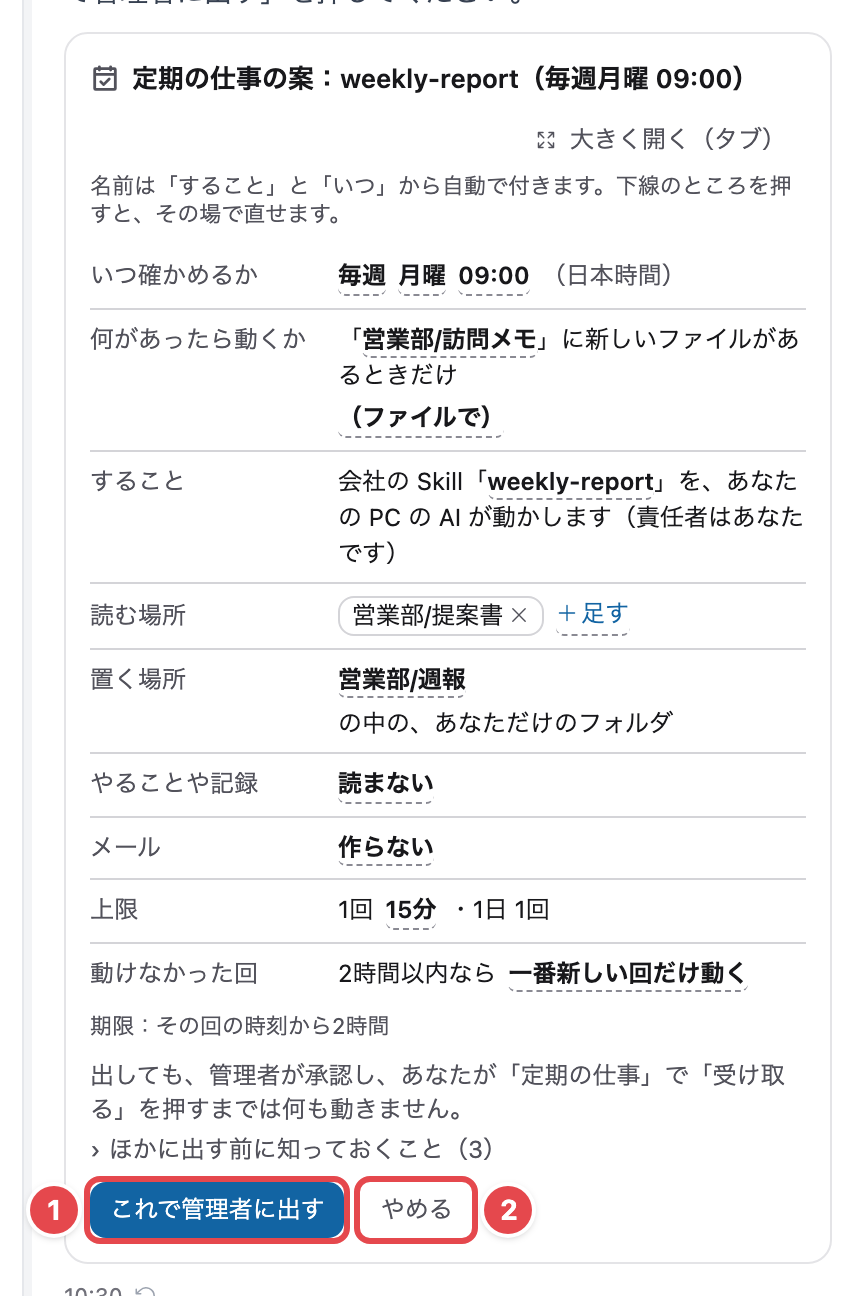
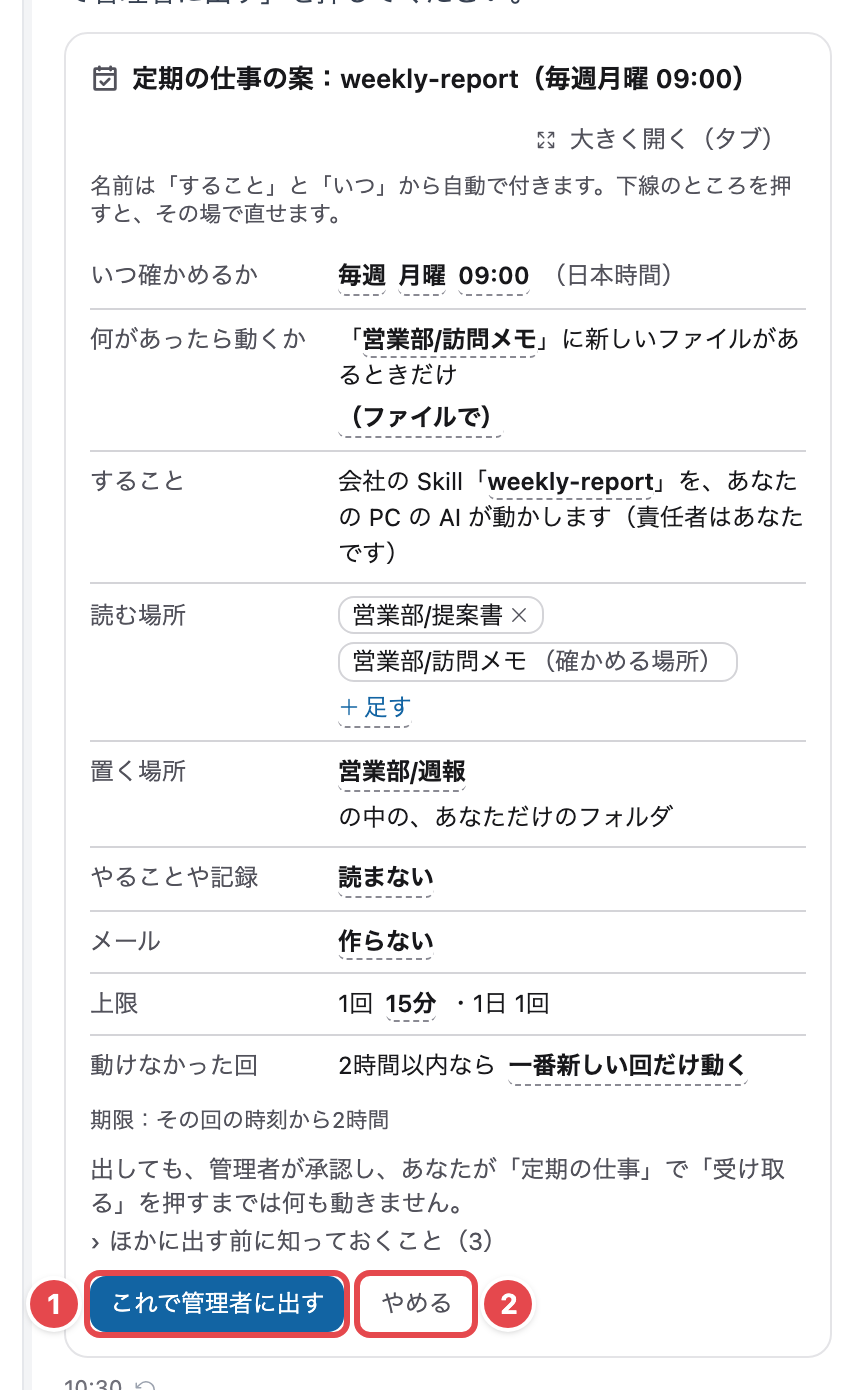
fix(client): a job proposal's 読む場所 shows every place the job may read, the check's place included
The card listed only the read places the member added, so a candidate whose
check looked at 営業部/顧客資料 and read nothing else said 「読む場所：なし」
while proposalDefinition granted reading that place. 読む場所 is now
proposalReadPaths (shared/core), the very list the definition puts in
grant.reads.paths: the check's place is shown, marked 「（確かめる場所）」 with
no ×; × takes off only a place added besides it. The manual's picture is
re-shot.

Claude-Session: https://claude.ai/code/session_01HCZRwqRkDF5Nj1GwyD9baC

diff --git a/client/src/features/chat/components/JobProposalEditRows.tsx b/client/src/features/chat/components/JobProposalEditRows.tsx
@@ -1,6 +1,6 @@
 import { useState, type ReactNode } from 'react'
 import { Plus, X } from '@phosphor-icons/react'
-import { isJobCandidatePlace, type JobCandidateInput } from '../../../../../shared/core/job-proposals'
+import { isJobCandidatePlace, proposalReadPaths, type JobCandidateInput } from '../../../../../shared/core/job-proposals'
 import type { JobWeekday } from '../../../../../shared/core/jobs'
 import { jobMinutesText } from '../../../../../shared/core/job-words'
 import { jobTimeZoneText } from '../../../../shared/job-proposals'
@@ -64,6 +64,8 @@ export function JobProposalEditRows({ input, skillChangeable, timeZone, disabled
   const places = (keep: string | null): readonly EditChoice[] | 'loading' => choices === 'loading' || choices === null ? 'loading'
     : placeChoices(known, keep ? [keep, ...current] : current).map(p => ({ value: p, label: p }))
   const zone = jobTimeZoneText(timeZone)
+  const checkPath = input.check.kind === 'new_files' ? input.check.path : null
+  const readPaths = proposalReadPaths(input)
   const common = { disabled, onOpen: onLoadChoices }
 
   return (
@@ -103,14 +105,17 @@ export function JobProposalEditRows({ input, skillChangeable, timeZone, disabled
           : <span className="font-strong">{input.skill}</span>}」を、あなたの PC の AI が動かします（責任者はあなたです）</span>
       </Row>
       <Row label="読む場所">
-        {input.reads.map(r => (
+        {/* What the AI may read (the grant's own list): the check's place too, which only the check's row changes. */}
+        {readPaths.map(r => (
           <span key={r} className="inline-flex items-center gap-0.5 rounded-control border border-border-control bg-surface-raised px-1.5">
             {r}
-            <button type="button" aria-label={`「${r}」を外す`} disabled={disabled} className="text-text-muted hover:text-text disabled:opacity-disabled"
-              onClick={() => set({ reads: input.reads.filter(x => x !== r) })}><X size={11} aria-hidden /></button>
+            {r === checkPath
+              ? <span className="text-text-muted">（確かめる場所）</span>
+              : <button type="button" aria-label={`「${r}」を外す`} disabled={disabled} className="text-text-muted hover:text-text disabled:opacity-disabled"
+                onClick={() => set({ reads: input.reads.filter(x => x !== r) })}><X size={11} aria-hidden /></button>}
           </span>
         ))}
-        {input.reads.length === 0 && <span className="text-text-muted">なし</span>}
+        {readPaths.length === 0 && <span className="text-text-muted">なし</span>}
         {input.reads.length < 10 && (
           <InlineChoice label="足す読む場所" value="" shown={<span className="inline-flex items-center gap-0.5 font-normal text-link"><Plus size={11} aria-hidden />足す</span>} {...common}
             choices={(() => { const p = places(null); return p === 'loading' ? p : [{ value: '', label: '選んでください' }, ...p.filter(c => !input.reads.includes(c.value) && !(input.check.kind === 'new_files' && input.check.path === c.value))] })()}

diff --git a/client/src/features/chat/jobProposalEdit.test.ts b/client/src/features/chat/jobProposalEdit.test.ts
@@ -4,7 +4,7 @@
  */
 import { test } from 'node:test'
 import assert from 'node:assert/strict'
-import { proposalDefinition, proposalInputOf, type JobCandidateInput } from '../../../../shared/core/job-proposals'
+import { proposalDefinition, proposalInputOf, proposalReadPaths, type JobCandidateInput } from '../../../../shared/core/job-proposals'
 import { parseJobDefinition, type JobDefinition } from '../../../../shared/core/jobs'
 import { atChoices, changeText, foldersOf, inputKey, normalizedInput, placeChoices, sameInput, skillChoices, triggerWithEvery } from './jobProposalEdit'
 
@@ -47,6 +47,21 @@ test('what is sent is what will come back: a read place chosen as the check\'s p
     const sent = normalizedInput(chosen)
     assert.ok(sameInput(back(sent), sent), JSON.stringify(chosen.reads))
     assert.ok(sameInput(back(chosen), sent), 'the server answers the normalized input')
+  }
+})
+
+test('読む場所 on the card is exactly what the job may read: the grant\'s read paths, the check\'s place included', () => {
+  const pinned = { actingUser: 'u', procedure: { source: 'company_skill' as const, skill: 'weekly-report', fingerprint: 'c'.repeat(40) }, skillName: 'weekly-report', candidateId: 'jc.' + 'a'.repeat(32) }
+  for (const chosen of [
+    INPUT,
+    { ...INPUT, reads: [] },
+    { ...INPUT, reads: ['営業部/訪問メモ', '営業部/提案書'] },
+    { ...INPUT, check: { kind: 'new_meetings' as const }, reads: [] },
+  ]) {
+    const definition = (parseJobDefinition(proposalDefinition(chosen, pinned)) as { definition: JobDefinition }).definition
+    // The card shows the input the server's definition reads back as (`proposalInputOf`).
+    const shown = proposalReadPaths(proposalInputOf(definition)!)
+    assert.deepEqual([...shown].sort(), [...definition.grant.reads.paths].sort(), JSON.stringify(chosen))
   }
 })
 

diff --git a/shared/core/job-proposals.ts b/shared/core/job-proposals.ts
@@ -164,14 +164,22 @@ export function proposalDeliverableFolder(candidateId: string): string {
 }
 
 /**
+ * Every place a candidate's job may read (`grant.reads.paths`): its read places, then the check's place — the one list the
+ * definition grants and the card shows as 読む場所, so what the member confirms is what the AI may read.
+ */
+export function proposalReadPaths(input: JobCandidateInput): string[] {
+  return [...new Set([...input.reads, ...(input.check.kind === 'new_files' ? [input.check.path] : [])])]
+}
+
+/**
  * The definition a candidate becomes (schema 4, not yet parsed — the server runs `parseJobDefinition` on it): the signed-in
  * member as the responsible person, the Skill the server pinned, the reads and the check's place read, the one やること it
  * creates at its end (`records`, `creates: ['task']`), the record reads / minutes / mail drafts only as chosen, at most one
  * run a day.
  */
 export function proposalDefinition(input: JobCandidateInput, pinned: { actingUser: string; procedure: JobProcedure; skillName: string; candidateId: string }): Record<string, unknown> {
-  const reads = [...new Set([...input.reads, ...(input.check.kind === 'new_files' ? [input.check.path] : [])])]
-  const tools = ['records', ...(reads.length > 0 ? ['files_read'] : []), ...(input.deliverable !== null ? ['files_write'] : []), ...(input.mailDrafts ? ['outbound_draft'] : [])]
+  const reads = proposalReadPaths(input)
+  const tools =['records', ...(reads.length > 0 ? ['files_read'] : []), ...(input.deliverable !== null ? ['files_write'] : []), ...(input.mailDrafts ? ['outbound_draft'] : [])]
   const routes = [
     ...(input.readRecords ? JOB_PROPOSAL_RECORD_ROUTES : []),
     ...(input.check.kind === 'new_meetings' ? [JOB_MINUTES_ROUTE] : []),

diff --git a/client/tests/job-proposal-card-ui.tsx b/client/tests/job-proposal-card-ui.tsx
@@ -4,6 +4,7 @@
 // Fictional data only. What the page offers the spec:
 //   ?hold=1                     a change's answer waits until `window.__acbRelease()` (the 「確かめています」 state)
 //   ?lost=1                     a change is made on the server, its answer lost
+//   ?reads=none                 the candidate reads only its check's place (「営業部/訪問メモ」), no other read place
 //   window.__acbChangeElsewhere()  the server's candidate is changed by someone else's card (the card still shows the old one)
 //   `#revised`                  every change sent (its fingerprint and the input), `#submitted` every 出す's fingerprint
 //   `#tab`                      ［大きく開く（タブ）］ opens the same card here, as AppShell's tab does
@@ -37,7 +38,11 @@ const build = (input: JobCandidateInput): JobDefinition => (parseJobDefinition(p
 
 // The server's candidate: what every read answers.
 let serial = 1
-let server = { definition: MANUAL_JOB_DEFINITION, fingerprint: fingerprintOf(serial) }
+let server = {
+  // `?reads=none`: the candidate reads no place besides the one its check looks at.
+  definition: params.get('reads') === 'none' ? build({ ...proposalInputOf(MANUAL_JOB_DEFINITION)!, reads: [] }) : MANUAL_JOB_DEFINITION,
+  fingerprint: fingerprintOf(serial),
+}
 const view = () => ({ id: CANDIDATE, definition: server.definition, fingerprint: server.fingerprint, expiresAt: '2026-11-21T01:30:00.000Z', timeZone: 'Asia/Tokyo' })
 let release: () => void = () => {}
 let submitted: JobProposalView | null = null

diff --git a/.claude/rules/shared-core.md b/.claude/rules/shared-core.md
@@ -83,7 +83,7 @@ server, push checker and admin alike. `server/tests/unit/core-purity.test.ts` en
 | `bundle-place.ts` | which department a new 案件・プロジェクト belongs to by default (`defaultBundleFolder`: the creator's 所属; `records.md` "A task and its 案件・プロジェクト") |
 | `task-settings.ts` | the company's task settings (`parseTaskSettings`, defaults, `workSwitchPoliciesOf`) and `replyTarget` (返事の目安, Japan time) (`tasks.md`) |
 | `jobs.ts` | scheduled jobs (定期の仕事): the strict definition parser `parseJobDefinition` (schema 1: trigger list shapes, check, run, placement e / a, missed, grant in the step tools' words), `jobConsentCanonical` (what the responsible person accepts), the set watch's words and the one list of opened combinations (`JOB_SET_WATCH_WORDS`, `JOB_SET_WATCH_OPENED`, `jobSetWatchOpened`, `parseJobDecisionFile`: schema 5, `jobs.md` "The set watch (schema 5)"), job / occurrence ids (`occ.` + hex, never a record id), occurrence states and outcome codes, `JOB_ACTOR` (`jobs.md`) |
-| `job-proposals.ts` | member proposals of a time job (`jobs.md` "Member proposals"): candidate / proposal ids, limits, states, the fixed return reasons and their words, `parseJobCandidateInput` (list values only), `isJobCandidatePlace` (a place a candidate may name — also what the app's card offers), `proposalDefinition` (schema 4), `proposalInputOf` (its input back, for the card changed in place), `proposalJobName`, `proposalDeliverableFolder`, `proposalInputOf` (the input a schema-4 definition was built from: what the card changes and sends to `revise`); a set watch from the app (schema 5, 4b-4 PR6b): `parseJobSetWatchCandidateInput`, `setWatchProposalDefinition`, `candidateSchemaOf` |
+| `job-proposals.ts` | member proposals of a time job (`jobs.md` "Member proposals"): candidate / proposal ids, limits, states, the fixed return reasons and their words, `parseJobCandidateInput` (list values only), `isJobCandidatePlace` (a place a candidate may name — also what the app's card offers), `proposalDefinition` (schema 4), `proposalReadPaths` (its read paths, also the card's 読む場所), `proposalInputOf` (its input back, for the card changed in place), `proposalJobName`, `proposalDeliverableFolder`, `proposalInputOf` (the input a schema-4 definition was built from: what the card changes and sends to `revise`); a set watch from the app (schema 5, 4b-4 PR6b): `parseJobSetWatchCandidateInput`, `setWatchProposalDefinition`, `candidateSchemaOf` |
 | `job-schedule.ts` | when a job's occurrences fall, in company time: `jobSlotDates`, `latestJobSlot`, `nextJobSlot` (business days from `business-days.ts`, which also has `previousBusinessDay`) (`jobs.md` "The clock") |
 | `features.ts` | the company's 「使う機能」: feature ids, lenient `featuresFrom`, which types / tools / notice kinds each owns, `typeIsViewOnly`, `toolAllowed`, `noticeTurnedOff`, `noticeKindsShown`, the words (`records.md` "Features on and off") |
 | `work-switches.ts` | each member's own 受信を読む / AI が自動で進める within the company's (`workSwitchOn`, `chooseWorkSwitch`; `tasks.md`) |

diff --git a/.claude/rules/jobs.md b/.claude/rules/jobs.md
@@ -2309,7 +2309,12 @@ Code: `shared/core/job-proposals.ts` (ids `jc.` / `jp.` + 32 hex, limits, states
     `src/features/chat/components/JobProposalEditRows.tsx`, `jobProposalEdit.ts`, `hooks/useJobProposalChoices.ts`). Before
     it is sent, a schema-4 candidate whose definition `proposalInputOf` reads back shows its values as rows (いつ・曜日 / 日・
     時刻, 何があったら動くか and its place, the Skill, 読む場所 (× / ＋足す), 置く場所 (or 置かない), やることや記録, メール, 1回の時間,
-    動けなかった回); each underlined value, pressed, becomes a list right there (edit-in-place: no separate edit box, nothing
+    動けなかった回). **読む場所 is what the job may read** (Codex review of UX stage 3, P2: a card said 「なし」 while the grant
+    read the check's place): the list is `proposalReadPaths` (`shared/core/job-proposals.ts`), the very list
+    `proposalDefinition` puts in `grant.reads.paths` — the read places, then the check's place, marked 「（確かめる場所）」 with
+    no ×, since only the check's row changes it; 「なし」 only when nothing is read. × takes off only a place added besides it
+    (tests: `tests/ui/job-proposal-card.spec.ts` 「読む場所 shows the check's place…」 / 「読む場所: the places added…」,
+    `jobProposalEdit.test.ts` 「読む場所 on the card is exactly…」). Each underlined value, pressed, becomes a list right there (edit-in-place: no separate edit box, nothing
     typed) and a choice is the change. **The card sends the whole input with the fingerprint shown** (IPC
     `jobProposals:revise` → `POST /me/job-candidates/:id/revise`, `client/electron/features/jobs/proposals.ts`, session only;
     main runs `parseJobCandidateInput` first and sends nothing else — an extra key, a hidden place, a bad id or fingerprint
